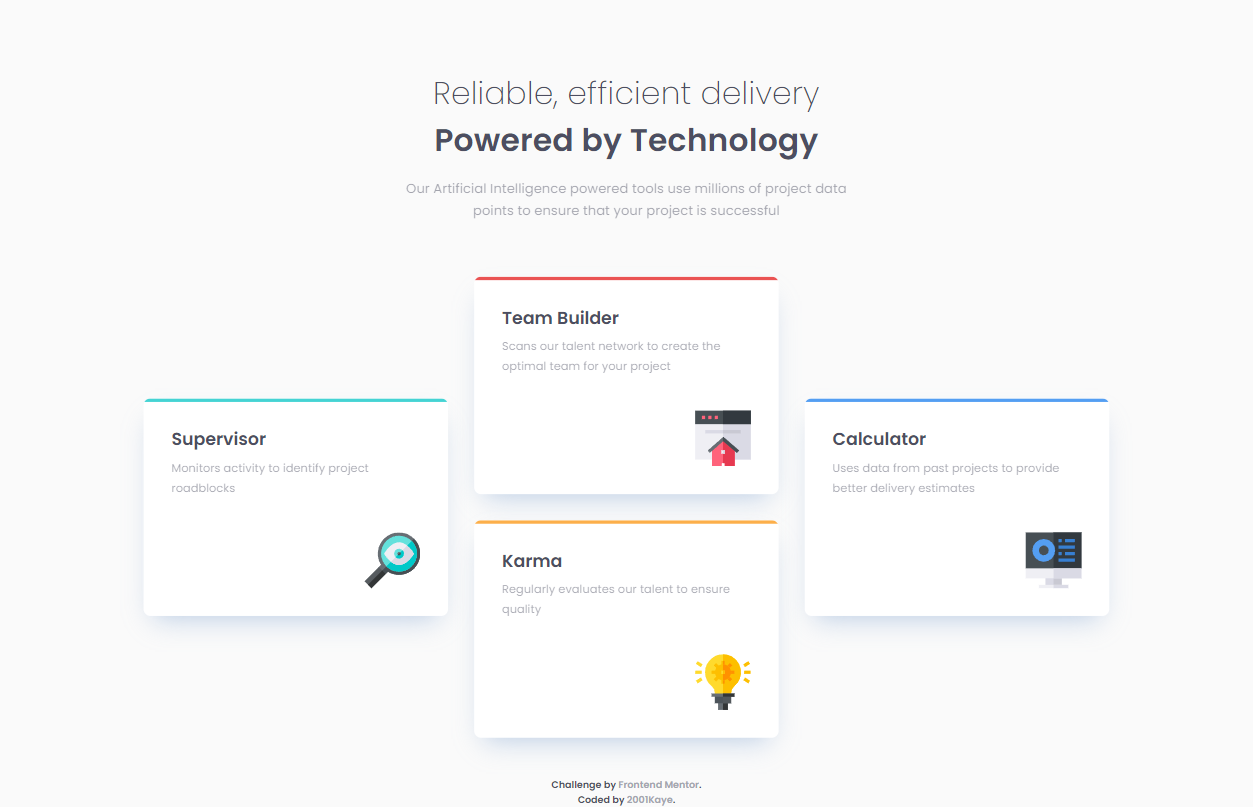
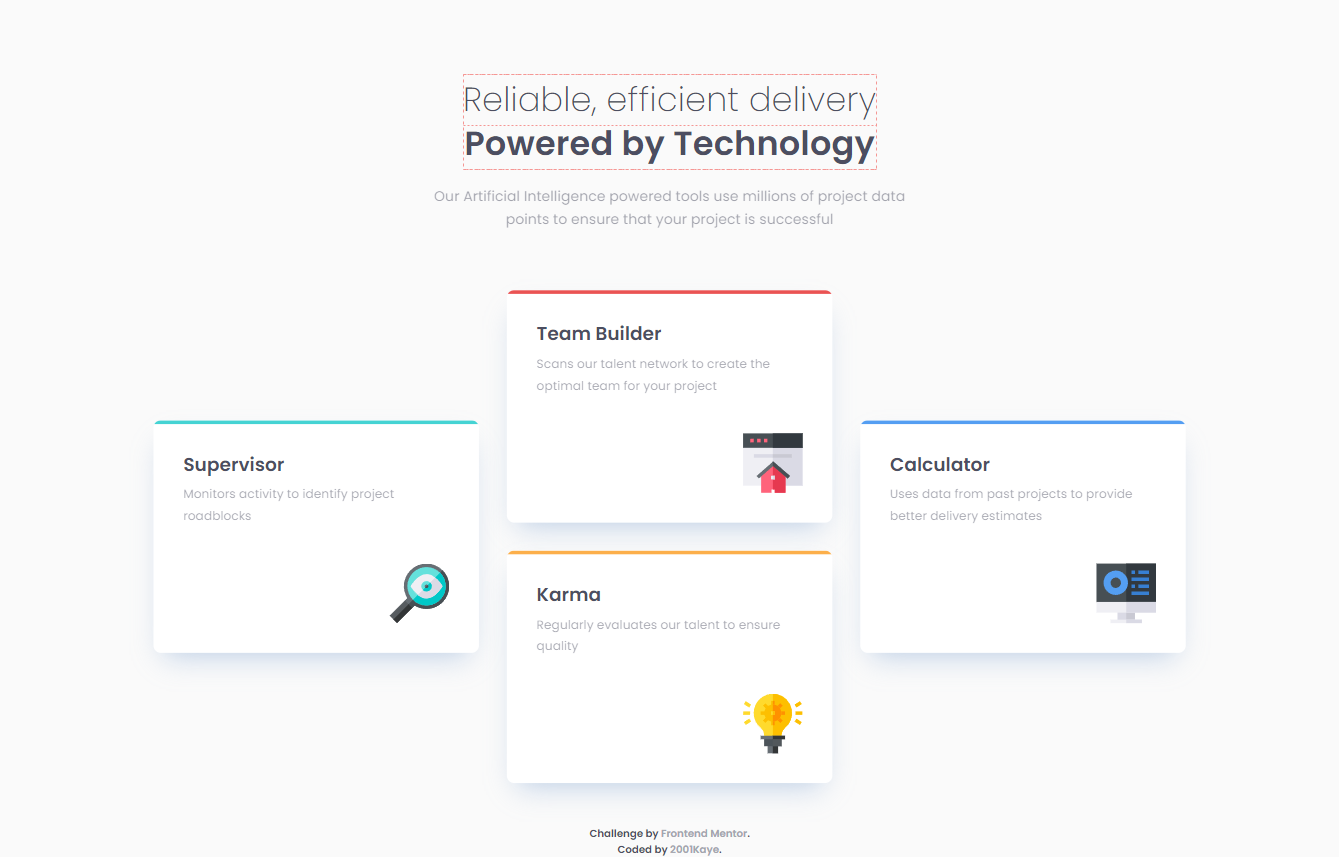
Fixed header location

diff --git a/styling/scss/_mediaDesktop.scss b/styling/scss/_mediaDesktop.scss
@@ -22,6 +22,11 @@
                 line-height: rem(54);
                 letter-spacing: rem(0.25);
             }
+
+            // For detail design...
+            h2 {
+                margin-top: rem(-6);
+            }
         }
     }
 

diff --git a/styling/css/styles.css b/styling/css/styles.css
@@ -266,6 +266,9 @@ body {
     line-height: 3.375rem;
     letter-spacing: 0.01562rem;
   }
+  #content div h2 {
+    margin-top: -0.375rem;
+  }
   #cards div {
     gap: 0.375rem;
   }
